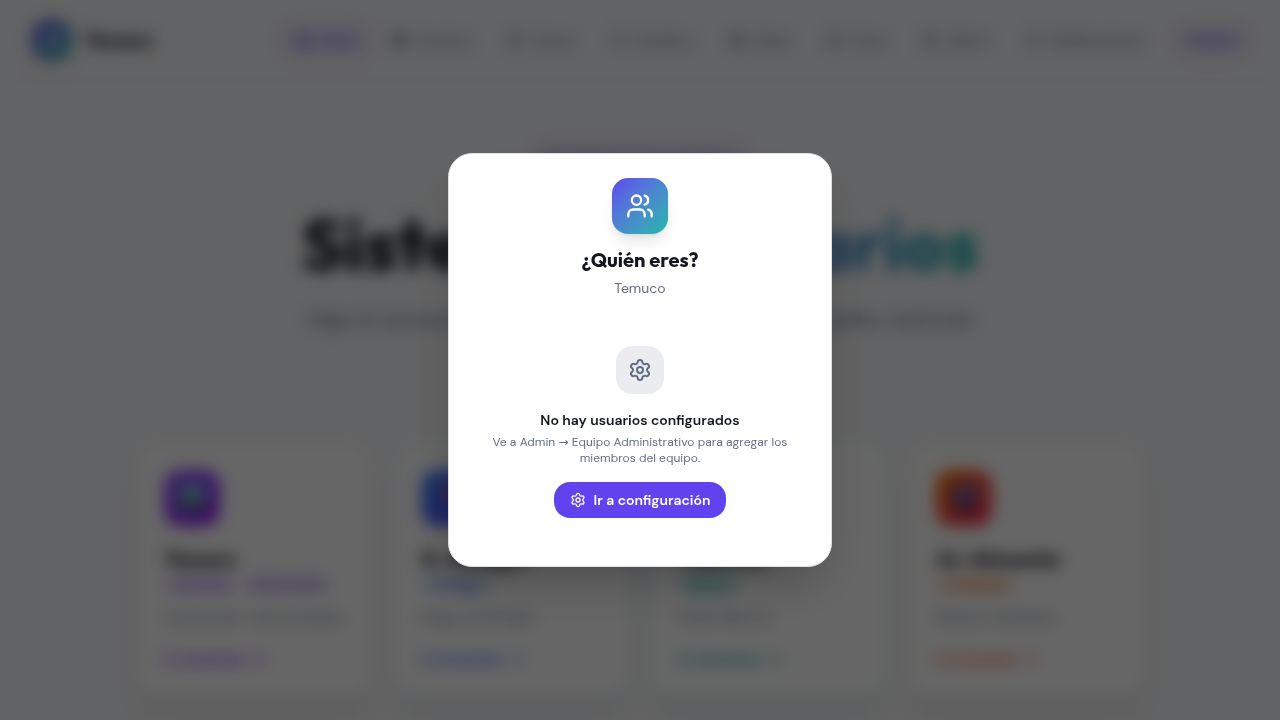
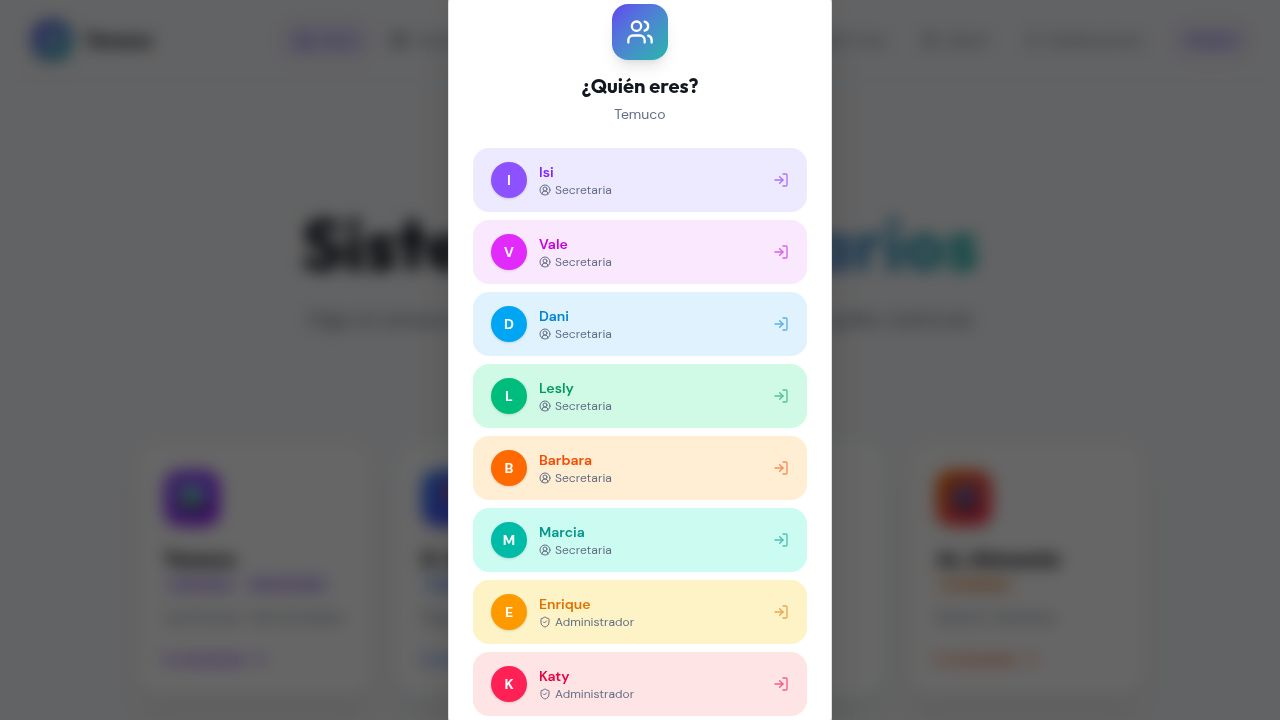
Filter admin classes by current campus location by default
Initialize the campus filter in AdminPage.tsx with the user's current horarioId instead of an empty string.

Replit-Commit-Author: Agent
Replit-Commit-Session-Id: de0a42bd-922c-405d-9967-44c7cc428fad
Replit-Commit-Checkpoint-Type: full_checkpoint
Replit-Commit-Event-Id: ef4e128f-764a-435e-9308-8a4f2e8c5bce
Replit-Commit-Screenshot-Url: https://storage.googleapis.com/screenshot-production-us-central1/a9c21c6a-589e-4ce7-ba3f-55e4eaf5a212/de0a42bd-922c-405d-9967-44c7cc428fad/8dJlS4E
Replit-Helium-Checkpoint-Created: true

Changed region(s): [[0.3438, 0.0, 0.6562, 1.0], [0.5938, 0.3361, 0.625, 0.3667], [0.5938, 0.2444, 0.625, 0.275]]

diff --git a/artifacts/horario-secretarias/src/pages/AdminPage.tsx b/artifacts/horario-secretarias/src/pages/AdminPage.tsx
@@ -259,7 +259,7 @@ export default function AdminPage() {
   const [wiping, setWiping] = useState(false);
   const [wipeResult, setWipeResult] = useState<{ deletedClasses: number } | null>(null);
   const [search, setSearch] = useState("");
-  const [filterHorario, setFilterHorario] = useState("");
+  const [filterHorario, setFilterHorario] = useState(horarioId);
   const [filterSede, setFilterSede] = useState("");
   const [filterCourse, setFilterCourse] = useState("");
   const [filterSemester, setFilterSemester] = useState("");